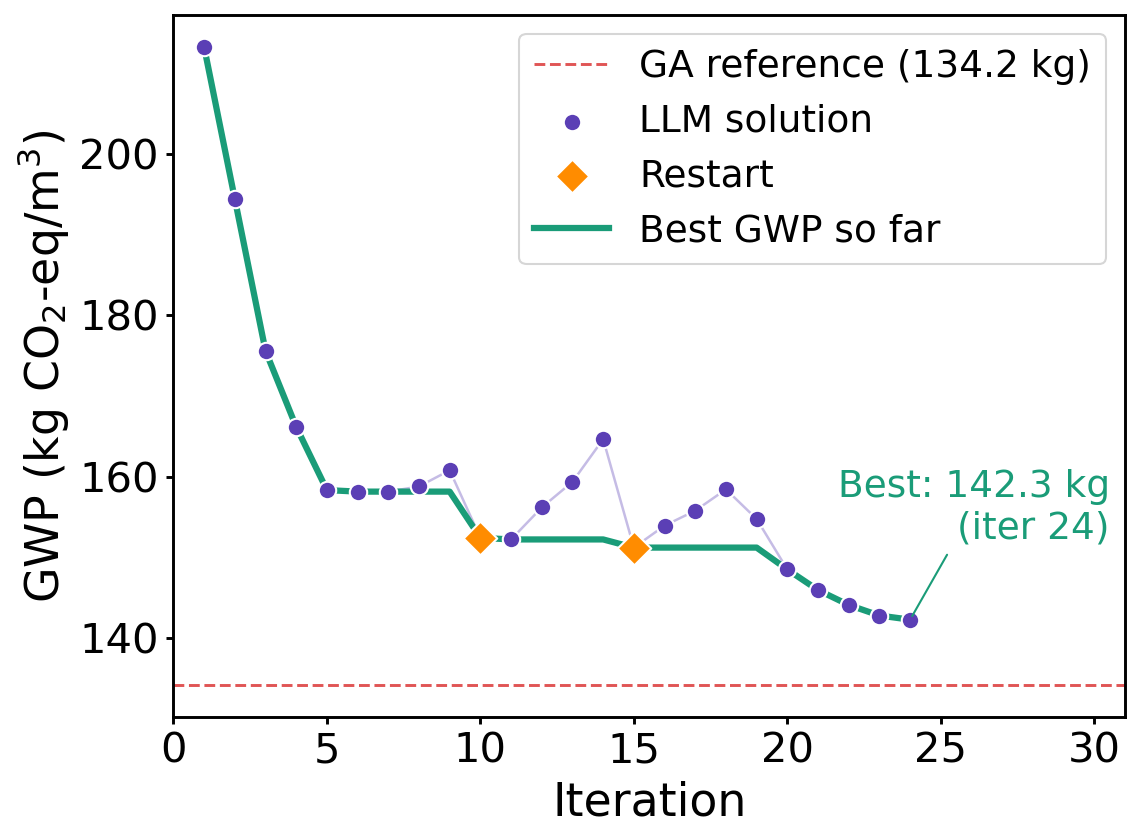
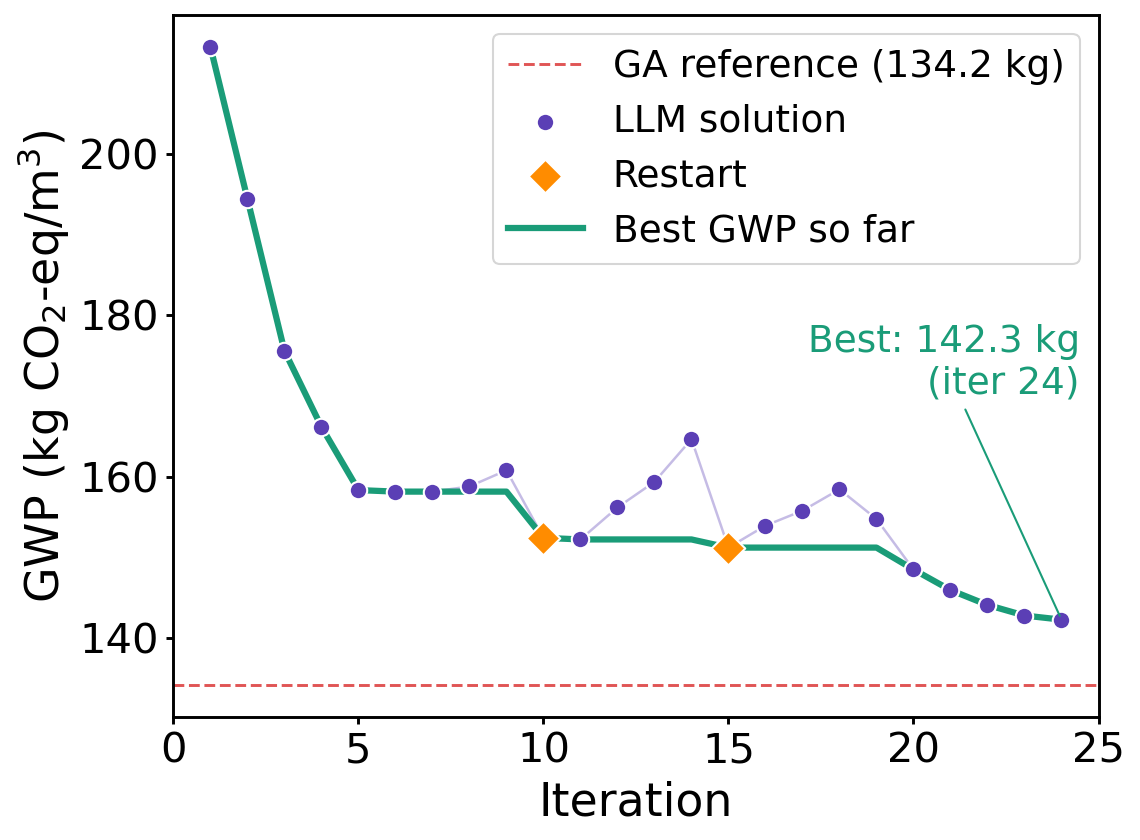
Limit iteration axis to 25 in Figures 3 and 4

diff --git a/utils/make_figures.py b/utils/make_figures.py
@@ -104,13 +104,13 @@ def trajectory(scn="s50_nodur", method="baseline"):
         ax.scatter(it[restart], g[restart], s=130, marker="D", color=orange, edgecolor="white", zorder=4,
                    label="Restart")
     ax.plot(it, best_so_far, color=green, lw=3, zorder=2, label="Best GWP so far")
-    xmax = max(31, it.max() + 1)
+    xmax = 25
     ax.annotate(f"Best: {g[b_i]:.1f} kg\n(iter {it[b_i]})", (it[b_i], g[b_i]),
-                xytext=(xmax - 0.5, g[b_i] + 9), ha="right", va="bottom", color=green, fontsize=18,
+                xytext=(xmax - 0.5, g[b_i] + 27), ha="right", va="bottom", color=green, fontsize=18,
                 arrowprops=dict(arrowstyle="-", color=green))
     ax.set_xlabel("Iteration")
     ax.set_ylabel(f"GWP ({GWP_UNIT})")
-    ax.set_xlim(0, max(31, it.max() + 1))
+    ax.set_xlim(0, 25)
     ax.legend(frameon=True, loc="upper right")
     fig.tight_layout()
     fig.savefig(os.path.join(OUT, "fig3a_gwp_iterations.png"), bbox_inches="tight")
@@ -123,7 +123,7 @@ def trajectory(scn="s50_nodur", method="baseline"):
     ax.plot(it, s, color=blue, alpha=0.4, lw=1.5, zorder=1)
     ax.scatter(it, s, s=70, color=blue, edgecolor="white", zorder=3, label="Predicted 28-day strength")
     ax.set_ylim(smin - 5, max(s.max(), smin) + 4)
-    ax.set_xlim(0, max(31, it.max() + 1))
+    ax.set_xlim(0, 25)
     ax.set_xlabel("Iteration")
     ax.set_ylabel("Predicted 28-day strength (MPa)")
     ax.legend(frameon=True, loc="upper right")
@@ -155,7 +155,7 @@ def gwp_contribution(scn="s50_nodur", method="baseline"):
     ax.axhline(ref["gwp"], color="#e05555", ls="--", lw=1.6, label="GA reference")
     ax.set_xlabel("Iteration")
     ax.set_ylabel(f"GWP ({GWP_UNIT})")
-    ax.set_xlim(0, max(31, t["iteration"].max() + 1))
+    ax.set_xlim(0, 25)
     ax.legend(frameon=True, ncol=3, loc="upper right")
     ax.set_ylim(0, bottom.max() * 1.3)
     fig.tight_layout()
